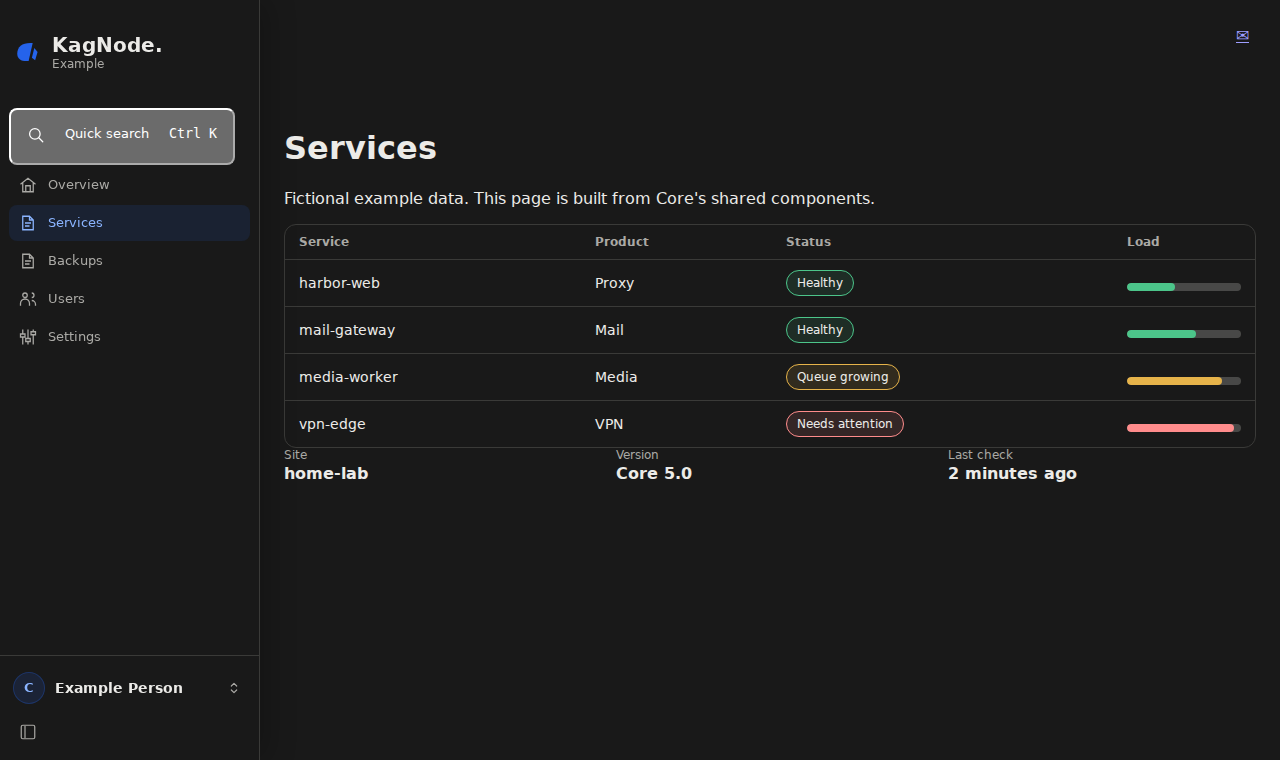
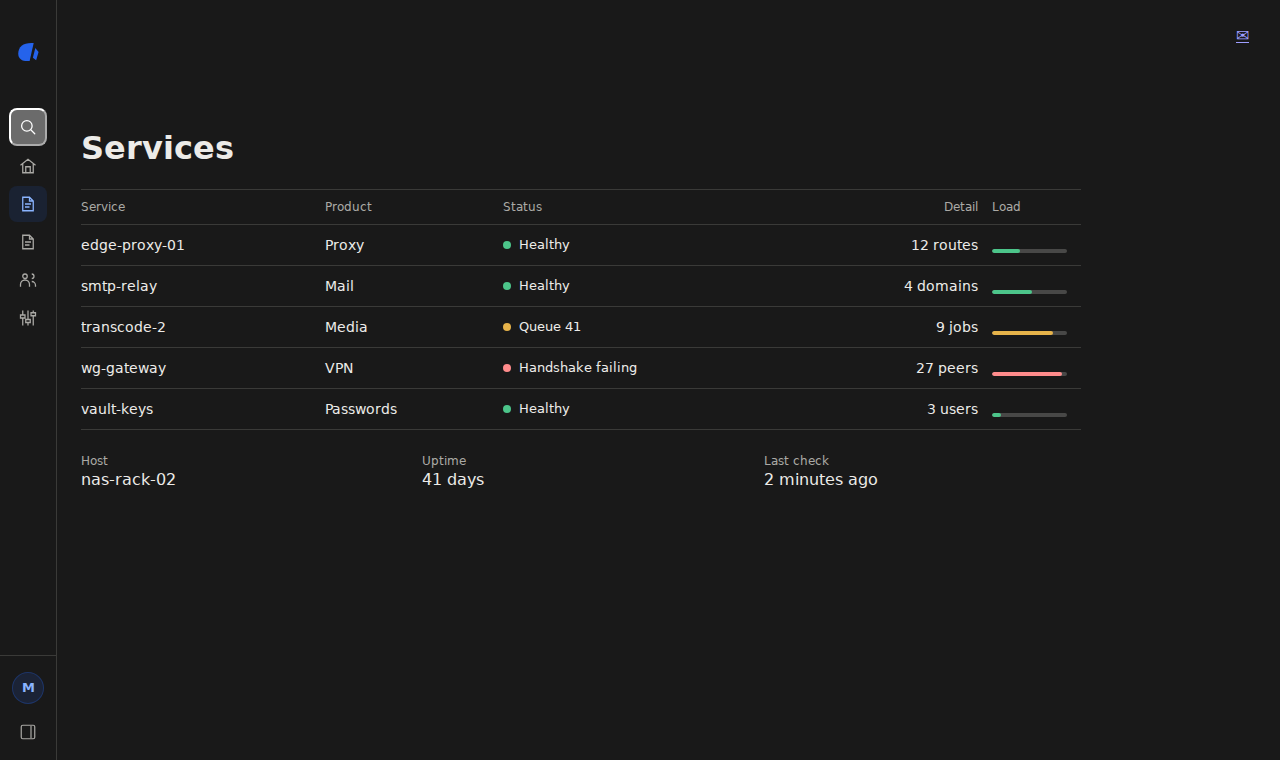
README: short status-table layout with realistic screenshots

diff --git a/README.md b/README.md
@@ -1,96 +1,86 @@
-# KagNode Core
+# KagNode. Core
 
-Shared web components and local asset delivery for the KagNode ecosystem.
+Shared web components and local asset delivery for KagNode applications.
+
+![Services page in light mode with the shared sidebar, table and status dots](docs/images/core-desktop-light.png)
 
 ## Overview
 
-Core provides the common interface for KagNode websites and independently hosted applications. Application servers serve a pinned local bundle; browsers never need GitHub to start the interface. Application authorization and business rules remain in the host project.
+Core gives every KagNode site the same shell: sidebar, account menu, search, dialogs, form controls, loading states and login frame. Your application serves a pinned, verified bundle from its own origin. Authorization, data and business rules stay in the application.
 
-### What it looks like
+| Light                                        | Dark                                       | Phone                                 |
+| -------------------------------------------- | ------------------------------------------ | ------------------------------------- |
+| ![Light](docs/images/core-desktop-light.png) | ![Dark](docs/images/core-desktop-dark.png) | ![Phone](docs/images/core-mobile.png) |
 
-These screenshots come from Core's own browser-test fixture with fictional example data. No real account, host or service is shown. The layout shown (account at the bottom of the sidebar, icon-only collapse control, inbox at the top right) is implemented in published and deployed Core 5.0.19; the screenshots are fixture examples, not authenticated production captures. The optional Administration folder requires an application-supplied authorized adapter and is not thereby enabled in deployed products.
-
-| Light                                                                                                                              | Dark                                                                                                                              |
-| ---------------------------------------------------------------------------------------------------------------------------------- | --------------------------------------------------------------------------------------------------------------------------------- |
-| ![A services page with the shared sidebar, table, status badges and load meters in light mode](docs/images/core-desktop-light.png) | ![The same page in dark mode with the full sidebar showing labels, search and the account row](docs/images/core-desktop-dark.png) |
-
-The sidebar is 260 px wide, or a 57 px icon rail when collapsed. On a phone it becomes a drawer:
-
-![The same page at phone width, with the navigation hidden behind a menu](docs/images/core-mobile.png)
+Screenshots show the unreleased 5.0.20 styling.
 
 ### How it works
 
-1. **Your application serves Core.** A small adapter (Node, Python or Rust) copies a pinned, verified bundle onto your own server. The browser loads Core from your origin and never needs GitHub to start the interface.
-2. **Core draws the shared parts.** It wraps your normal HTML in the common shell: sidebar, account menu, search, dialogs, form controls, loading states and login frame. You supply the links, the page content and what the signed-in person may see.
-3. **You keep the decisions.** Core does not grant access or invent navigation. Authorization, business rules and data stay in your application.
-4. **Updates are signed and limited.** A manager on the host checks the detached signature and checksums before it stores a new release. Only compatible UI patches are applied automatically, they cannot restart services, and the previous bundle is kept for rollback.
-5. **Components for data pages.** Tables with captions, status badges, fact lists and usage meters follow the same tokens, and a confirmation dialog collects a password without leaving the page. See [components](docs/COMPONENTS.md) and [dialogs](docs/DIALOGS.md).
-6. **Optional Administration folder.** A host can ask Core for an "Administration" folder in the sidebar. It appears only for a signed-in session, never on public pages, and every link must be http(s). Details are in [integration](docs/INTEGRATION.md).
+| Step   | What happens                                                                                                            |
+| ------ | ----------------------------------------------------------------------------------------------------------------------- |
+| Serve  | An adapter (Node, Python or Rust) copies the pinned bundle onto your server.                                            |
+| Draw   | Core wraps your HTML in the shared shell. You supply links, content and visibility.                                     |
+| Update | A manager checks a detached signature and checksums, keeps the previous bundle, and applies only compatible UI patches. |
+| Extend | Tables, status dots, fact lists, meters and password-confirm dialogs use the same tokens.                               |
 
 ## Release status
 
-**5.0.0 is the coordinated KagNode stable UI contract.** It includes one branded login frame with shared form, provider, recovery and error presentation; viewport-safe account menus; native-motion scrolling; responsive navigation; and a selected set of the [320 original UI icons](docs/ICONS.md) used by actual components.
-
-The remaining icon library is optional, with typed individual/category imports, SVG downloads and a searchable gallery. Servers verify and serve Core locally; browsers do not load Core code from GitHub. Applications explicitly adopt this major version and retain compatible patch policies. Backend helpers require separate review and are never installed by an automatic UI patch.
-
-Stable Core describes the component, adapter and signed-update contract. It does not qualify application business rules, VPN networking, Mail delivery, Media codecs, HTTP Boot images or Bitwarden compatibility. Earlier 1.x releases remain available for existing deployments.
-
-## Features
-
-- One shared 260/57px sidebar, mobile drawer, icon account menu and restrained motion.
-- Native wheel, touch and trackpad scrolling with accessible draggable rails.
-- Shared fields, selectors, calendars, dialogs, loading, search, dashboard presentation and account preferences.
-- Browser-to-account appearance connections with PKCE and origin-bound, revocable appearance-only grants.
-- Offline adapters, signed UI-only updates, local administrator controls and rollback.
-
-## Requirements
-
-Node.js 24 for Node hosts/builds; Python 3.10+ for Python adapters; Rust 1.88+ for the Linux/Unix Rust adapter. Flask is optional for its adapter. The Linux asset manager requires OpenSSL, root-owned storage and Unix sockets. Browser functionality progressively enhances ordinary authorized HTML. Reduced motion, forced colors and native-scrolling preferences are supported.
+|                 |                                                                           |
+| --------------- | ------------------------------------------------------------------------- |
+| Current release | 5.0.19 (published, deployed on the KagNode sites)                         |
+| Next            | 5.0.20 candidate in draft, not released                                   |
+| Not covered     | Application rules, VPN, Mail delivery, Media codecs, HTTP Boot, Bitwarden |
 
 ## Installation and downloads
 
-| Package                                                   | Platform              | Purpose                                                             |
-| --------------------------------------------------------- | --------------------- | ------------------------------------------------------------------- |
-| `kagnode-core-V-node.tgz`                                 | Node.js 24            | npm-compatible local adapter and pinned fallback                    |
-| `kagnode_core-V-py3-none-any.whl`                         | Python 3.10+          | Python adapter, manager and pinned fallback                         |
-| `kagnode-core-V-ui.tar.gz`, `.tar.xz`, `.zip`             | Browser assets        | Versioned assets; only the signed tar.gz is installed automatically |
-| `kagnode-core-V-rust.tar.gz`, `.tar.xz`, `.zip`           | Rust 1.88+ Linux/Unix | Framework-independent local assets and manager transport            |
-| `kagnode-core-V-source.*`                                 | Any                   | Editable source, tests, licenses and documentation                  |
-| `kagnode-core-V-icons.tgz`, `-icons.tar.gz`, `-icons.zip` | Optional UI icons     | Typed glyph modules, individual SVGs and standalone local gallery   |
+| Package                           | For                              |
+| --------------------------------- | -------------------------------- |
+| `kagnode-core-V-node.tgz`         | Node.js 24 adapter               |
+| `kagnode_core-V-py3-none-any.whl` | Python 3.10+ adapter and manager |
+| `kagnode-core-V-rust.tar.gz`      | Rust 1.88+ adapter               |
+| `kagnode-core-V-ui.tar.gz`        | Browser assets (signed)          |
+| `kagnode-core-V-icons.*`          | Optional icon library            |
+| `kagnode-core-V-source.*`         | Source, tests, licenses          |
 
-Use [releases](https://github.com/every-lemon/kagnode-core/releases). Verify `SHA256SUMS`; the manager additionally verifies the detached Ed25519 signature on `core-manifest.json`. Never substitute a third-party repository or an unverified manifest.
+Take releases only from [GitHub releases](https://github.com/every-lemon/kagnode-core/releases). Verify `SHA256SUMS`; the manager also verifies the Ed25519 signature on `core-manifest.json`.
 
 ## Usage
 
-Node: install the local npm archive, then call `installCore(app, {appId, context})` before routes. Python: install the wheel, then call `register_flask(app, app_id, context)` before request handling. Rust: vendor the versioned crate, construct `Core::new(root, application)` and expose its checked assets on the application origin. See [integration](docs/INTEGRATION.md). The [staged Rust manager](packages/manager-rust/README.md) provides a separately reviewed replacement for the current helper; it is not installed by a compatible UI patch. Existing authorized navigation and content are adopted into the canonical browser shell; adapters do not grant access or build private navigation.
+| Host   | Call                                                        |
+| ------ | ----------------------------------------------------------- |
+| Node   | `installCore(app, {appId, context})` before routes          |
+| Python | `register_flask(app, app_id, context)`                      |
+| Rust   | `Core::new(root, application)` and serve its checked assets |
+
+Details: [integration](docs/INTEGRATION.md), [components](docs/COMPONENTS.md), [dialogs](docs/DIALOGS.md), [icons](docs/ICONS.md).
 
 ## Configuration and storage
 
-Applications commit `core.lock.json` with their baseline, adapter and compatible patch line. The manager stores immutable asset releases in `/srv/kagnode/core/releases/` and per-application bindings under `apps/`. Application databases, account passwords, encryption keys, native services and uploaded files remain in their existing locations. The bundled fallback starts offline even if the manager is unavailable.
+| Item                    | Location                             |
+| ----------------------- | ------------------------------------ |
+| Baseline and patch line | `core.lock.json` in your application |
+| Releases                | `/srv/kagnode/core/releases/`        |
+| Per-app bindings        | `/srv/kagnode/core/apps/`            |
+| Offline fallback        | Bundled with the adapter             |
 
 ## Security
 
-Only compatible stable UI asset patches are automatic. They cannot contain backend hooks or restart services. Backend helpers, prereleases and minor/major changes require application review. The manager enforces fixed repository selection, signed inventories, bounded downloads, path checks, checksums, root ownership and per-app Unix socket permissions. Host applications must enforce local administrator authorization and CSRF. [Security details](docs/SECURITY.md).
-
-Browser code is inspectable. Minification, fingerprints and attribution reduce accidental reuse; they do not make UI code copy-proof. Artwork permissions are separate from AGPL software licensing.
+Only compatible UI patches update automatically; they cannot restart services or add backend code. The manager enforces fixed repositories, signed inventories, bounded downloads, path checks and root ownership. Hosts enforce administrator authorization and CSRF. See [security](docs/SECURITY.md).
 
 ## Development and testing
 
-Run `npm ci`, `npm run build`, `npm test`, `npm run check` and `npm run format:check`. Browser acceptance runs with `python tests/browser.py` after installing Playwright browsers. Set `KAGNODE_BROWSER_ENGINE=webkit` for WebKit. Tests use isolated fixtures rather than production accounts or media processing.
-
-Build release archives with `python3 tools/package.py`. Signing is a separate trusted maintainer operation; private keys never belong in the repository. See [release operations](docs/OPERATIONS.md).
-
-## Documentation
-
-- [Repository map](docs/REPOSITORY-MAP.md)
-- [Integration and component contract](docs/INTEGRATION.md)
-- [Appearance connection protocol](docs/APPEARANCE.md)
-- [Update operations and rollback](docs/OPERATIONS.md)
-- [Artwork provenance](assets/provenance.json)
-- [Original UI icons and gallery](docs/ICONS.md)
-- [Component example](examples/server.mjs)
-- [Changelog](CHANGELOG.md)
+```
+npm ci && npm run build && npm test && npm run check && npm run format:check
+python tests/browser.py        # KAGNODE_BROWSER_ENGINE=webkit for WebKit
+```
 
 ## Licensing
 
-Software is AGPL-3.0-only; see [LICENSE](LICENSE). Imported KagNode artwork retains [its artwork permission](assets/ARTWORK-LICENSE). Public source and vendored corresponding source remain available with application packages.
+Software: AGPL-3.0-only ([LICENSE](LICENSE)). Artwork: [ARTWORK-LICENSE](assets/ARTWORK-LICENSE).
+
+## Links
+
+|           |                                                                |
+| --------- | -------------------------------------------------------------- |
+| Changelog | [CHANGELOG.md](CHANGELOG.md)                                   |
+| Releases  | [GitHub](https://github.com/every-lemon/kagnode-core/releases) |
